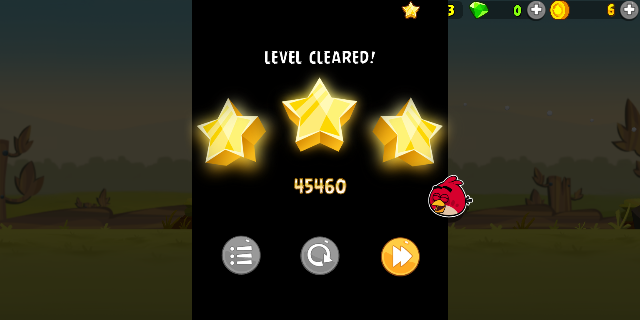
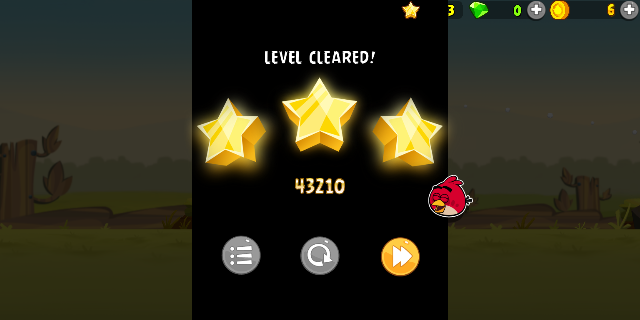
audio variant: re-validate on the current build, and prove it on modern Android
The audio variant ships as a documented option, and PROOF_10 was the only
evidence it works. That image predated this session's shim changes - the
guest->host boundary hardening, the loader path bounding, the log-level and
__android_log_write fixes - so what it proved was a binary that no longer exists.
The recorded hash beside it had been updated by a docs sweep, which made the
staleness harder to see rather than easier.

Re-run on the current build (x86shim-audio f08f1754):

  API 25  install ok, h_fatal=0, nativeMixData=8, and the screenshot VIEWED:
          "LEVEL CLEARED", 3 stars, 43210            -> PROOF_10 refreshed
  API 34  install ok, h_fatal=0, nativeMixData=8, and the screenshot VIEWED:
          "LEVEL CLEARED", 3 stars, 46540            -> PROOF_17, new

The API 34 result is new coverage, not just a refresh: the audio variant had only
ever been proven on API 25, while the A56 is modern Android. nativeMixData=8 in
both runs means the mixer is actually being driven, not merely compiled in.

Note the metric line in both scripts says "frames climbed past card", not "won" -
so the win claim rests on looking at the screenshots, which is why the index
entry for PROOF_10 says what it says.

What this still does not establish is unchanged and stated in the docs: continuous
audio PLAYBACK needs real audio hardware. These runs prove the audio-enabled build
plays through and wins without crashing, with the mixer running - not that sound
comes out of a speaker.

Changed region(s): [[0.4375, 0.5312, 0.5625, 0.625], [0.0, 0.4062, 0.0938, 0.5312], [0.9375, 0.3125, 1.0, 0.4688]]

diff --git a/reports/shots/README.md b/reports/shots/README.md
@@ -38,7 +38,8 @@ is given from the run that produced them and is marked `(by run, not hash)`.
 | `PROOF_7_level2_progression.png` | Tapping NEXT loads a **fresh, distinct level 2** — score 0, new structures | x86shim-release | 25 | `emu_progress_release.sh` |
 | `PROOF_8_modern_android_win.png` | "LEVEL CLEARED", score 44000, on modern Android | x86shim-release | 34 | `emu_modern_playthrough.sh` *(by run, not hash)* |
 | `PROOF_9_modern_android_level2.png` | Advances into level 2 on modern Android | x86shim-release | 34 | `emu_modern_progress.sh` |
-| `PROOF_10_audio_levelwin.png` | The **audio variant** plays through and wins | x86shim-audio | 25 | `emu_audio_playthrough.sh` |
+| `PROOF_10_audio_levelwin.png` | The **audio variant** plays through and wins, with the mixer actually running (`nativeMixData` called) | x86shim-audio | 25 | `emu_audio_playthrough.sh` |
+| `PROOF_17_audio_win_modern.png` | The audio variant wins on **modern Android** as well — previously it was only ever proven on API 25 | x86shim-audio | 34 | `emu_audio_modern.sh` |
 | `PROOF_11_modern_win_reproduced_in_repo.png` | The modern-Android win reproduced from the in-repo rig | x86shim-release | 34 | `emu_modern_playthrough.sh` *(by run, not hash)* |
 | `PROOF_12_postfix_no_regression.png` | No regression after the fix round | x86shim-release | 34 | *(by run, not hash)* |
 | `PROOF_13_heapfix_still_wins.png` | Still wins **after the allocator fix** | x86shim-release | 25 | `emu_playthrough_release.sh` |
